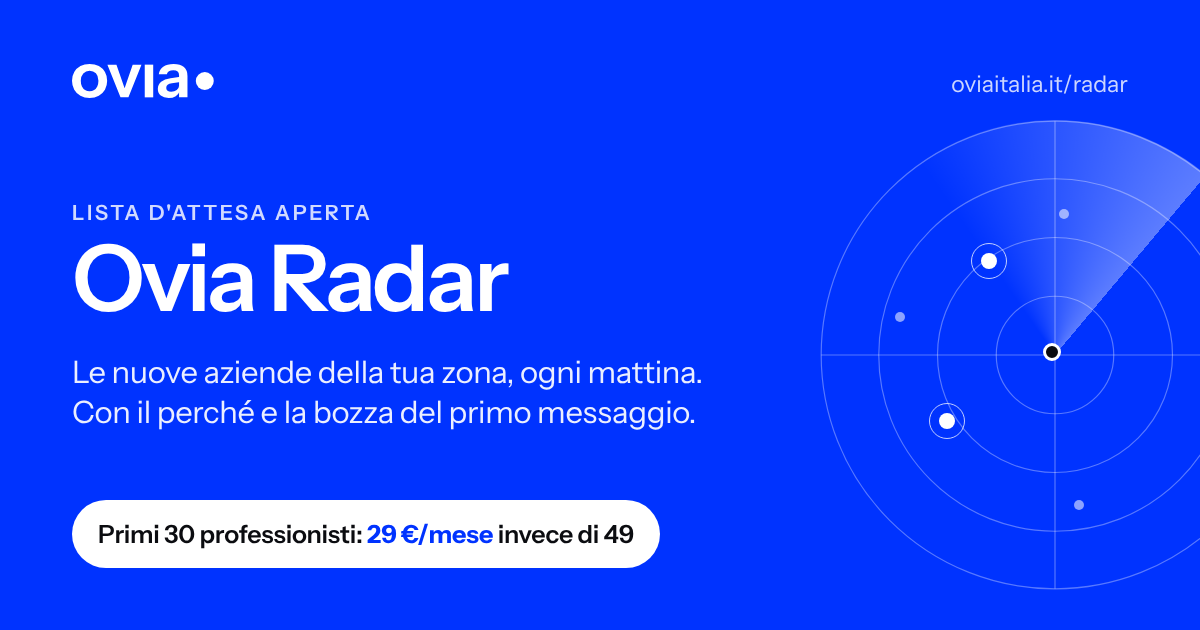
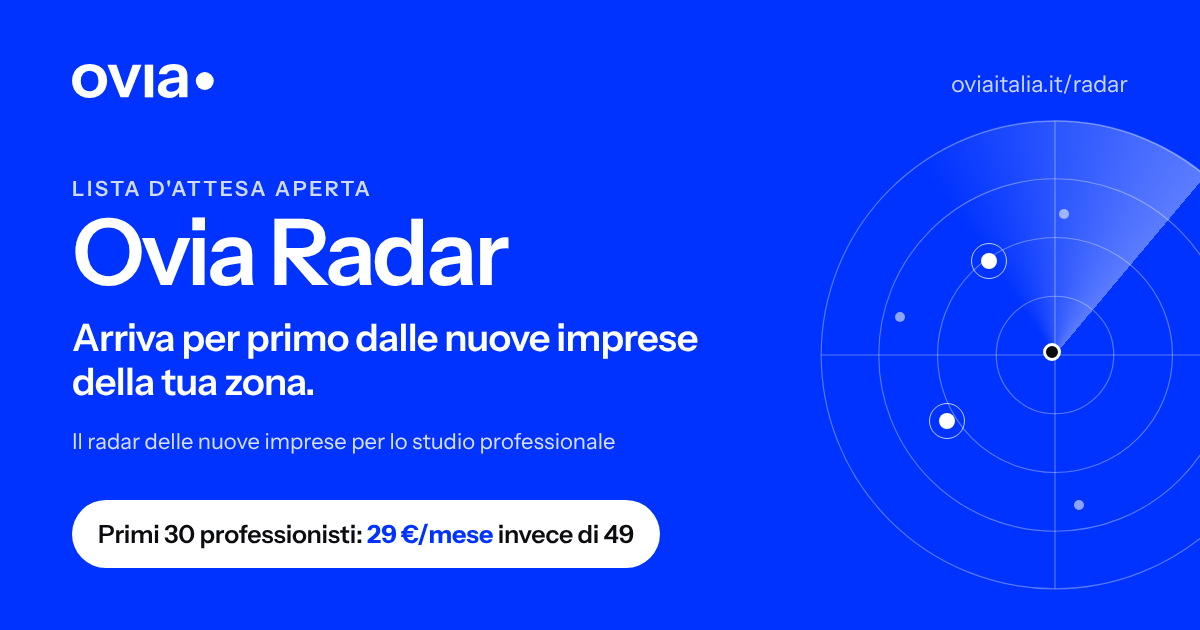
Ovia Radar: nuovo posizionamento («arriva per primo dalle nuove imprese»)
- radar.html: titolo, sottotitolo, sezione «perché» e lessico riscritti per
  commercialisti e consulenti del lavoro (imprese, mandato, sviluppo dello
  studio); dati Movimprese con fonte
- anteprima LinkedIn (assets/og/radar.png) e blocco in homepage allineati
- llms.txt aggiornato

Claude-Session: https://claude.ai/code/session_01HSiKivNEtS76b8ow66UXcA

Changed region(s): [[0.0617, 0.2714, 0.5858, 0.7238]]

diff --git a/radar.html b/radar.html
@@ -3,8 +3,8 @@
 <head>
   <meta charset="UTF-8" />
   <meta name="viewport" content="width=device-width, initial-scale=1.0" />
-  <title>Ovia Radar — le nuove aziende della tua zona, ogni mattina | Lista d'attesa</title>
-  <meta name="description" content="Ogni notte Ovia Radar legge il Registro Imprese e ti segnala le nuove aziende della tua zona, con la bozza del primo messaggio. Lista d'attesa: primi 30 a 29 €/mese." />
+  <title>Ovia Radar — il radar delle nuove imprese per lo studio | Lista d'attesa</title>
+  <meta name="description" content="Arriva per primo dalle nuove imprese della tua zona: Ovia Radar legge ogni notte il Registro Imprese e ti prepara il primo contatto. Lista d'attesa: primi 30 a 29 €/mese." />
   <link rel="canonical" href="https://oviaitalia.it/radar.html" />
   <link rel="icon" href="/favicon.ico" sizes="32x32">
   <link rel="icon" href="/favicon.svg" type="image/svg+xml" />
@@ -13,8 +13,8 @@
   <meta property="og:type" content="website" />
   <meta property="og:site_name" content="Ovia" />
   <meta property="og:url" content="https://oviaitalia.it/radar.html" />
-  <meta property="og:title" content="Ovia Radar — le nuove aziende della tua zona, ogni mattina" />
-  <meta property="og:description" content="Lista d'attesa aperta. I primi 30 professionisti entrano a 29 €/mese, per sempre, invece di 49." />
+  <meta property="og:title" content="Ovia Radar — arriva per primo dalle nuove imprese della tua zona" />
+  <meta property="og:description" content="Il radar delle nuove imprese per commercialisti e consulenti del lavoro. Lista d'attesa aperta: i primi 30 entrano a 29 €/mese invece di 49." />
   <meta property="og:image" content="https://oviaitalia.it/assets/og/radar.png" />
   <meta property="og:image:width" content="1200" />
   <meta property="og:image:height" content="630" />
@@ -22,13 +22,13 @@
   <meta property="og:locale" content="it_IT" />
   <meta name="twitter:card" content="summary_large_image" />
   <meta name="twitter:image" content="https://oviaitalia.it/assets/og/radar.png" />
-  <meta name="twitter:title" content="Ovia Radar — le nuove aziende della tua zona, ogni mattina" />
-  <meta name="twitter:description" content="Lista d'attesa aperta. I primi 30 professionisti entrano a 29 €/mese invece di 49." />
+  <meta name="twitter:title" content="Ovia Radar — arriva per primo dalle nuove imprese della tua zona" />
+  <meta name="twitter:description" content="Il radar delle nuove imprese per lo studio professionale. Lista d'attesa aperta: primi 30 a 29 €/mese invece di 49." />
 
   <link rel="preload" href="/assets/fonts/instrument-sans-latin.woff2" as="font" type="font/woff2" crossorigin>
   <link rel="stylesheet" href="/assets/ovia-pages.css" />
   <link rel="stylesheet" href="/landing.css" />
-  <script type="application/ld+json">{"@context":"https://schema.org","@graph":[{"@type":"WebPage","@id":"https://oviaitalia.it/radar.html#webpage","url":"https://oviaitalia.it/radar.html","name":"Ovia Radar — le nuove aziende della tua zona, ogni mattina","inLanguage":"it-IT","isPartOf":{"@type":"WebSite","url":"https://oviaitalia.it","name":"Ovia"}},{"@type":"SoftwareApplication","name":"Ovia Radar","applicationCategory":"BusinessApplication","operatingSystem":"Web, iOS, Android","description":"Applicazione per commercialisti e consulenti del lavoro: ogni notte legge il Registro Imprese, segnala le nuove aziende della zona scelta, le ordina per punteggio, spiega perché contattarle e prepara la bozza del primo messaggio. Nessun invio automatico.","brand":{"@type":"Brand","name":"Ovia"},"offers":[{"@type":"Offer","name":"Prezzo fondatori (primi 30 iscritti alla lista d'attesa)","price":"29","priceCurrency":"EUR","availability":"https://schema.org/PreOrder","url":"https://oviaitalia.it/radar.html#prezzo"}]},{"@type":"BreadcrumbList","itemListElement":[{"@type":"ListItem","position":1,"name":"Home","item":"https://oviaitalia.it/"},{"@type":"ListItem","position":2,"name":"Ovia Radar","item":"https://oviaitalia.it/radar.html"}]},{"@type":"FAQPage","mainEntity":[{"@type":"Question","name":"Che cos'è Ovia Radar?","acceptedAnswer":{"@type":"Answer","text":"Un'applicazione che ogni notte legge il Registro Imprese e al mattino mostra al professionista le nuove aziende della sua zona, ordinate per punteggio, con il motivo per cui contattarle e la bozza del primo messaggio. Non invia nulla da sola."}},{"@type":"Question","name":"Quando apre Ovia Radar?","acceptedAnswer":{"@type":"Answer","text":"Ovia Radar non è ancora aperto al pubblico. L'accesso parte dalla lista d'attesa, in ordine di iscrizione."}},{"@type":"Question","name":"Quanto costa Ovia Radar?","acceptedAnswer":{"@type":"Answer","text":"Il piano Radar costa 49 euro al mese, IVA inclusa. I primi 30 professionisti della lista d'attesa lo attivano a 29 euro al mese, bloccati finché l'abbonamento resta attivo."}}]}]}</script>
+  <script type="application/ld+json">{"@context":"https://schema.org","@graph":[{"@type":"WebPage","@id":"https://oviaitalia.it/radar.html#webpage","url":"https://oviaitalia.it/radar.html","name":"Ovia Radar — il radar delle nuove imprese per lo studio professionale","inLanguage":"it-IT","isPartOf":{"@type":"WebSite","url":"https://oviaitalia.it","name":"Ovia"}},{"@type":"SoftwareApplication","name":"Ovia Radar","applicationCategory":"BusinessApplication","operatingSystem":"Web, iOS, Android","description":"Il radar delle nuove imprese per commercialisti e consulenti del lavoro: ogni notte legge il Registro Imprese, segnala le imprese appena iscritte nella zona dello studio, le ordina per punteggio, spiega perché presentarsi e prepara la bozza del primo messaggio. Nessun invio automatico.","brand":{"@type":"Brand","name":"Ovia"},"offers":[{"@type":"Offer","name":"Prezzo fondatori (primi 30 iscritti alla lista d'attesa)","price":"29","priceCurrency":"EUR","availability":"https://schema.org/PreOrder","url":"https://oviaitalia.it/radar.html#prezzo"}]},{"@type":"BreadcrumbList","itemListElement":[{"@type":"ListItem","position":1,"name":"Home","item":"https://oviaitalia.it/"},{"@type":"ListItem","position":2,"name":"Ovia Radar","item":"https://oviaitalia.it/radar.html"}]},{"@type":"FAQPage","mainEntity":[{"@type":"Question","name":"Che cos'è Ovia Radar?","acceptedAnswer":{"@type":"Answer","text":"Il radar delle nuove imprese per lo studio professionale: ogni notte legge il Registro Imprese e al mattino mostra al professionista le imprese appena iscritte nella sua zona, ordinate per punteggio, con il motivo per presentarsi e la bozza del primo messaggio. Non invia nulla da solo."}},{"@type":"Question","name":"Quando apre Ovia Radar?","acceptedAnswer":{"@type":"Answer","text":"Ovia Radar non è ancora aperto al pubblico. L'accesso parte dalla lista d'attesa, in ordine di iscrizione."}},{"@type":"Question","name":"Quanto costa Ovia Radar?","acceptedAnswer":{"@type":"Answer","text":"Il piano Radar costa 49 euro al mese, IVA inclusa. I primi 30 professionisti della lista d'attesa lo attivano a 29 euro al mese, bloccati finché l'abbonamento resta attivo."}}]}]}</script>
   <style>
     /* ---------- Hero: banda blu con il radar ---------- */
     .ra-band { background: var(--accent); color: #fff; overflow: hidden; }
@@ -74,6 +74,7 @@
     .ra-step.me { background: var(--night); border-color: var(--night); }
     .ra-step.me .n { color: #8fb0ff; } .ra-step.me h3 { color: #fff; } .ra-step.me p { color: var(--night-text); } .ra-step.me .g { background: rgba(255,255,255,.08); color: #fff; }
     .ra-step.me::after { content: ''; position: absolute; top: 18px; right: 18px; width: 9px; height: 9px; border-radius: 50%; background: var(--night-dot); }
+    .ra-src { display: block; margin-top: 6px; font-size: 12.5px; color: var(--faint); }
     .ra-law { border-left: 3px solid var(--accent); padding: 4px 0 4px 18px; margin: 22px 0 0; font-size: 15px; color: var(--body); line-height: 1.55; max-width: 84ch; }
     .ra-law b { color: var(--ink); }
 
@@ -174,16 +175,16 @@
       <div class="ra-hero-grid">
         <div>
           <p class="ra-badge">Lista d'attesa aperta · 30 posti a prezzo fondatori</p>
-          <h1>Ogni mattina sai quali aziende sono appena nate nella tua zona.</h1>
-          <p class="sub">Ovia Radar legge ogni notte il Registro Imprese, sceglie le nuove aziende che fanno per il tuo studio, ti spiega perché e ti prepara la bozza del primo messaggio. Chi contattare lo decidi tu: Radar non invia niente da solo.</p>
+          <h1>Arriva per primo dalle nuove imprese della tua zona.</h1>
+          <p class="sub">Ovia Radar è il radar delle nuove imprese per commercialisti e consulenti del lavoro. Ogni notte legge il Registro Imprese; al mattino ti mostra quelle appena nate vicino al tuo studio, con il motivo per presentarti e la bozza del primo messaggio. Chi contattare lo decidi tu.</p>
           <div class="lp-cta-row">
             <a href="#lista" class="lp-btn lp-btn-primary">Entra in lista d'attesa</a>
             <a href="#come" class="lp-btn lp-btn-ghost">Guarda come funziona</a>
           </div>
-          <p class="ra-hero-note">Per commercialisti e consulenti del lavoro. Iscrizione gratuita, nessuna carta richiesta.</p>
+          <p class="ra-hero-note">Iscrizione gratuita, nessuna carta richiesta. Radar non invia niente da solo.</p>
         </div>
         <div>
-          <div class="ra-scope" role="img" aria-label="Un radar che segnala le nuove aziende intorno allo studio">
+          <div class="ra-scope" role="img" aria-label="Un radar che segnala le nuove imprese intorno allo studio">
             <svg viewBox="0 0 400 400" aria-hidden="true" focusable="false" fill="none" stroke="rgba(255,255,255,.32)" stroke-width="1">
               <circle cx="200" cy="200" r="199"/><circle cx="200" cy="200" r="150"/><circle cx="200" cy="200" r="100"/><circle cx="200" cy="200" r="50"/>
               <path d="M200 1V399M1 200H399"/>
@@ -204,17 +205,17 @@
   </div>
 
   <section class="why-now" id="cosa">
-    <h2 class="why-now-title">Il passaparola non si programma. Le nuove imprese sì.</h2>
+    <h2 class="why-now-title">Il passaparola ti fa aspettare. Il radar ti fa arrivare per primo.</h2>
     <div class="why-now-grid">
       <div class="why-now-story">
-        <p class="kicker">Ogni azienda che nasce viene iscritta al Registro Imprese, ed è un dato pubblico. Nelle prime settimane quella stessa azienda decide a chi affidare contabilità, paghe e adempimenti. Di solito sceglie chi conosce già, o chi si fa vivo per primo.</p>
-        <p>Oggi quel momento passa senza che lo studio lo sappia. I nuovi clienti arrivano dal passaparola, che funziona ma non si può accelerare né prevedere. L'alternativa è comprare un elenco camerale: centinaia di nomi senza ordine, senza un motivo e senza un passo successivo.</p>
-        <p><strong>Ovia Radar è uno strumento di acquisizione clienti per professionisti.</strong> Guarda al posto tuo le fonti pubbliche, tiene solo le aziende che rientrano nella tua zona e nel tuo tipo di cliente, le mette in ordine con un punteggio da 0 a 100 e per ognuna scrive tre cose: perché ti riguarda, cosa fare, quando farlo.</p>
+        <p class="kicker">Nel 2025 si sono iscritte al Registro Imprese 323.533 nuove imprese: quasi 900 al giorno. Ognuna, nelle prime settimane, decide a chi affidare contabilità, paghe e adempimenti. Il mandato va a chi l'imprenditore conosce già, o a chi si presenta per primo.</p>
+        <p>Oggi quel momento passa senza che lo studio lo sappia. Il portafoglio clienti cresce con il passaparola, che funziona ma lo decide qualcun altro: non si può accelerare né mettere a piano. L'alternativa di sempre è l'elenco camerale: centinaia di righe senza ordine, senza un motivo e senza un passo successivo.</p>
+        <p><strong>Ovia Radar rende programmabile lo sviluppo dello studio.</strong> Guarda al posto tuo le fonti pubbliche, tiene solo le imprese che rientrano nella tua zona e nel tuo tipo di cliente, le mette in ordine con un punteggio da 0 a 100 e per ognuna scrive tre cose: perché ti riguarda, cosa fare, quando farlo.</p>
         <p>Poi si ferma, come ogni sistema Ovia: il pallino <span class="ra-dot" aria-hidden="true"></span> del nostro logo significa «in attesa». Radar prepara la bozza del messaggio; leggerla, cambiarla e inviarla resta una decisione tua.</p>
       </div>
       <div class="stat-cards">
-        <div class="stat-card"><div class="big">Ogni notte</div><div class="desc">la scansione delle fonti pubbliche per le province che hai scelto</div></div>
-        <div class="stat-card"><div class="big">0–100</div><div class="desc">il punteggio che ordina le opportunità: prima quelle recenti, vicine e nel tuo settore</div></div>
+        <div class="stat-card"><div class="big">323.533</div><div class="desc">nuove imprese iscritte al Registro nel 2025. Tra luglio e settembre 2026 le iscrizioni sono salite ancora: 62.788, +2,5%.<span class="ra-src">Fonte: Unioncamere-InfoCamere, Movimprese</span></div></div>
+        <div class="stat-card"><div class="big">Ogni notte</div><div class="desc">la lettura del Registro per le province che hai scelto; al mattino le imprese sono in ordine di punteggio, da 0 a 100</div></div>
         <div class="stat-card"><div class="big">0</div><div class="desc">messaggi inviati senza che tu li abbia letti e spediti di persona</div></div>
       </div>
     </div>
@@ -225,17 +226,17 @@
     <h2 class="lp-section-title">Quattro passi. L'ultimo è sempre tuo.</h2>
     <p class="lp-section-sub">Imposti il radar una volta, in due minuti. Da quel momento lavora ogni notte e al mattino ti lascia un elenco corto: fino a 10 opportunità al giorno, non cento.</p>
     <div class="ra-steps">
-      <div class="ra-step"><div class="n">Passo 1</div><h3>Dici dove lavori e chi cerchi</h3><p>La tua città e un raggio fino a 50 km, il tipo di azienda che cerchi e i settori che segui. Una domanda per schermata; cambi tutto quando vuoi.</p><span class="g">una volta, 2 minuti</span></div>
-      <div class="ra-step"><div class="n">Passo 2</div><h3>Il radar legge le fonti</h3><p>Ogni notte controlla il Registro Imprese per le tue province e raccoglie le aziende appena iscritte. Lavora solo su imprese iscritte al Registro, non su privati cittadini.</p><span class="g">ogni notte</span></div>
-      <div class="ra-step"><div class="n">Passo 3</div><h3>Al mattino sai chi chiamare</h3><p>Le opportunità arrivano ordinate per punteggio. Ognuna ha il perché in una frase, il primo passo consigliato, il momento giusto, i contatti aziendali pubblici e il link alla fonte per verificare.</p><span class="g">notifica sul telefono o email</span></div>
-      <div class="ra-step me"><div class="n">Passo 4</div><h3>Decidi tu</h3><p>Se un'azienda ti interessa, Radar prepara la bozza per email, LinkedIn o telefonata nel tono che hai scelto. La invii tu, dal tuo canale. Poi la segui in una pipeline con follow-up e valore stimato.</p><span class="g">approva una persona</span></div>
+      <div class="ra-step"><div class="n">Passo 1</div><h3>Dici dove lavori e chi cerchi</h3><p>La tua città e un raggio fino a 50 km, il tipo di impresa che cerchi e i settori che segui. Una domanda per schermata; cambi tutto quando vuoi.</p><span class="g">una volta, 2 minuti</span></div>
+      <div class="ra-step"><div class="n">Passo 2</div><h3>Il radar legge le fonti</h3><p>Ogni notte controlla il Registro Imprese per le tue province e raccoglie le imprese appena iscritte. Lavora solo su imprese iscritte al Registro, non su privati cittadini.</p><span class="g">ogni notte</span></div>
+      <div class="ra-step"><div class="n">Passo 3</div><h3>Al mattino sai da chi presentarti</h3><p>Le opportunità arrivano ordinate per punteggio. Ognuna ha il perché in una frase, il primo passo consigliato, il momento giusto, i contatti pubblici dell'impresa e il link alla fonte per verificare.</p><span class="g">notifica sul telefono o email</span></div>
+      <div class="ra-step me"><div class="n">Passo 4</div><h3>Decidi tu</h3><p>Se un'impresa ti interessa, Radar prepara la bozza per email, LinkedIn o telefonata nel tono che hai scelto. La invii tu, dal tuo canale. Poi la segui dal primo contatto al mandato, con follow-up e valore stimato.</p><span class="g">approva una persona</span></div>
     </div>
     <p class="ra-law"><b>Come nasce il punteggio.</b> Cinque fattori, tutti leggibili: quanto è recente l'iscrizione, quanto dista dal tuo studio, se il settore è tra i tuoi, che tipo di evento è, quanti dati pubblici ci sono per contattarla. Quando scarti un'opportunità o ne vinci una, il radar ne tiene conto per le successive.</p>
   </section>
 
   <section class="lp-section" id="app" style="padding-top:0">
     <p class="lp-eyebrow">Dentro l'app</p>
-    <h2 class="lp-section-title">Una scheda per ogni azienda. Una bozza pronta se decidi di scriverle.</h2>
+    <h2 class="lp-section-title">Una scheda per ogni impresa. Una bozza pronta se decidi di scriverle.</h2>
     <div class="ra-shot">
       <div class="bar"><i></i><i></i><i></i> Ovia Radar · Opportunità di oggi <em>Esempio con dati inventati</em></div>
       <div class="body">
@@ -265,7 +266,7 @@
         <h3>Senza Ovia Radar</h3>
         <ul>
           <li>I nuovi clienti arrivano quando qualcuno fa il tuo nome</li>
-          <li>Le aziende appena nate in zona le scopri quando hanno già scelto un altro studio</li>
+          <li>Le imprese appena nate in zona le scopri quando hanno già dato il mandato a un altro studio</li>
           <li>Un elenco comprato ha centinaia di righe e nessuna priorità</li>
           <li>Il primo messaggio si scrive da zero, quando avanza tempo</li>
           <li>Chi hai contattato e quando è in un foglio, o a memoria</li>
@@ -274,11 +275,11 @@
       <div class="vs-col oggi">
         <h3>Con Ovia Radar</h3>
         <ul>
-          <li>Ogni mattina un elenco corto di aziende nuove nella tua zona</li>
+          <li>Ogni mattina un elenco corto di imprese nuove nella tua zona</li>
           <li>Le vedi nei primi giorni di vita, con la data di iscrizione</li>
           <li>Sono già in ordine: punteggio, motivo, primo passo</li>
           <li>La bozza è pronta nel tuo tono; tu la approvi e la invii</li>
-          <li>Ogni contatto ha uno stato, un follow-up e un valore stimato</li>
+          <li>Dal primo contatto al mandato: ogni impresa ha uno stato, un follow-up e un valore stimato</li>
         </ul>
       </div>
     </div>
@@ -323,19 +324,19 @@
     <h2 class="lp-section-title">Per chi vive di clienti che restano anni.</h2>
     <div class="ra-who">
       <div><h3>Commercialisti</h3><p>Ogni nuova impresa ha bisogno di qualcuno per contabilità, dichiarazioni e bilancio. Radar te la mostra nei primi giorni, quando la scelta è ancora aperta.</p></div>
-      <div><h3>Consulenti del lavoro</h3><p>Un'azienda appena costituita che assume è un incarico per paghe e contributi. Vedi le nuove iscrizioni nella tua zona prima degli altri.</p></div>
+      <div><h3>Consulenti del lavoro</h3><p>Un'impresa appena costituita che assume è un mandato per paghe e contributi. Vedi le nuove iscrizioni nella tua zona nei primi giorni.</p></div>
       <div><h3>Altre professioni</h3><p>Partiamo da queste due perché il segnale è chiaro e verificabile. Se fai un altro lavoro, iscriviti indicando la professione: ti scriviamo quando Radar sarà pronto per la tua.</p></div>
     </div>
   </section>
 
   <section class="lp-section" style="padding-top:0">
     <p class="lp-eyebrow">Dati e regole</p>
-    <h2 class="lp-section-title">Solo dati pubblici di aziende. Nessun invio automatico.</h2>
+    <h2 class="lp-section-title">Solo dati pubblici di imprese. Nessun invio automatico.</h2>
     <div class="ra-rules">
       <div><h3>Imprese, non privati</h3><p>Radar lavora su dati pubblici del Registro Imprese, ottenuti da un fornitore di dati camerali. Riguarda imprese iscritte, non privati cittadini. Ogni opportunità riporta la fonte, così puoi verificarla prima di muoverti.</p></div>
-      <div><h3>Il contatto lo decidi tu</h3><p>Nessun messaggio parte da Radar. Se e come scrivere a un'azienda resta una tua scelta, da fare nel rispetto delle regole del tuo Ordine sulla comunicazione professionale. Un'azienda che non vuole comparire può chiedere l'esclusione: non verrà più proposta a nessuno.</p></div>
+      <div><h3>Il contatto lo decidi tu</h3><p>Nessun messaggio parte da Radar. Se e come presentarti a un'impresa resta una tua scelta, da fare nel rispetto delle regole del tuo Ordine sulla comunicazione professionale. Un'impresa che non vuole comparire può chiedere l'esclusione: non verrà più proposta a nessuno.</p></div>
       <div><h3>I tuoi dati restano tuoi</h3><p>Ogni studio vede solo le proprie opportunità e la propria pipeline. I dati sono in un database nell'Unione Europea; puoi esportarli o chiederne la cancellazione dall'app in qualsiasi momento.</p></div>
-      <div><h3>Niente promesse inventate</h3><p>Le spiegazioni sono scritte solo a partire dai dati del segnale. Radar non garantisce che un'azienda diventi cliente: ti dà il nome giusto al momento giusto. La trattativa resta il tuo lavoro.</p></div>
+      <div><h3>Niente promesse inventate</h3><p>Punteggio e spiegazioni sono preparati con l'intelligenza artificiale, solo a partire dai dati della fonte. Radar non garantisce che un'impresa diventi cliente: ti dà il nome giusto al momento giusto. La relazione e il mandato restano il tuo lavoro.</p></div>
     </div>
   </section>
 
@@ -356,7 +357,7 @@
         <div class="lp-faq-a">Il prezzo fondatori di 29 € al mese è riservato ai primi 30 professionisti della lista che attivano l'abbonamento. Chi arriva dopo resta in lista e viene avvisato all'apertura successiva, al prezzo di listino di 49 € al mese.</div>
       </div>
       <div class="lp-faq-item">
-        <button class="lp-faq-q">Radar scrive alle aziende al posto mio? <span class="plus">+</span></button>
+        <button class="lp-faq-q">Radar scrive alle imprese al posto mio? <span class="plus">+</span></button>
         <div class="lp-faq-a">Mai. Radar prepara una bozza di email, di messaggio LinkedIn o una traccia per la telefonata. Tu la leggi, la modifichi e la invii dal tuo canale. Radar non ha accesso alla tua casella di posta né ai tuoi profili.</div>
       </div>
       <div class="lp-faq-item">

diff --git a/en/index.html b/en/index.html
@@ -140,8 +140,8 @@
       <div class="hm-pk-in hm-pk-ra">
         <div>
           <p class="case-tag">Waiting list open · for accountants and employment consultants</p>
-          <h2 class="ov-h2">Ovia Radar: the new companies in your area, every morning.</h2>
-          <p class="ov-lead">It reads the Italian Business Register every night and tells you which new companies are worth contacting, with the reason why and a draft first message. It never sends anything on its own. The first 30 professionals join at €29 a month instead of €49. Italian only for now.</p>
+          <h2 class="ov-h2">Ovia Radar: be the first to reach the new companies in your area.</h2>
+          <p class="ov-lead">The new-company radar for professional firms. It reads the Italian Business Register every night; in the morning it shows you the companies just set up near you, with a reason to introduce yourself and a draft first message. It never sends anything on its own. The first 30 professionals join at €29 a month instead of €49. Italian only for now.</p>
         </div>
         <div class="hm-pk-cta"><a class="ov-btn" href="/radar.html">Join the waiting list</a></div>
       </div>

diff --git a/index.html b/index.html
@@ -140,8 +140,8 @@
       <div class="hm-pk-in hm-pk-ra">
         <div>
           <p class="case-tag">Lista d&#39;attesa aperta · per commercialisti e consulenti del lavoro</p>
-          <h2 class="ov-h2">Ovia Radar: le nuove aziende della tua zona, ogni mattina.</h2>
-          <p class="ov-lead">Legge ogni notte il Registro Imprese e ti dice quali nuove aziende vale la pena contattare, con il perché e la bozza del primo messaggio. Non invia niente da solo. I primi 30 professionisti entrano a 29 € al mese invece di 49.</p>
+          <h2 class="ov-h2">Ovia Radar: arriva per primo dalle nuove imprese della tua zona.</h2>
+          <p class="ov-lead">Il radar delle nuove imprese per lo studio professionale. Ogni notte legge il Registro Imprese; al mattino ti mostra quelle appena nate vicino a te, con il motivo per presentarti e la bozza del primo messaggio. Non invia niente da solo. I primi 30 professionisti entrano a 29 € al mese invece di 49.</p>
         </div>
         <div class="hm-pk-cta"><a class="ov-btn" href="/radar.html">Entra in lista d&#39;attesa</a></div>
       </div>
